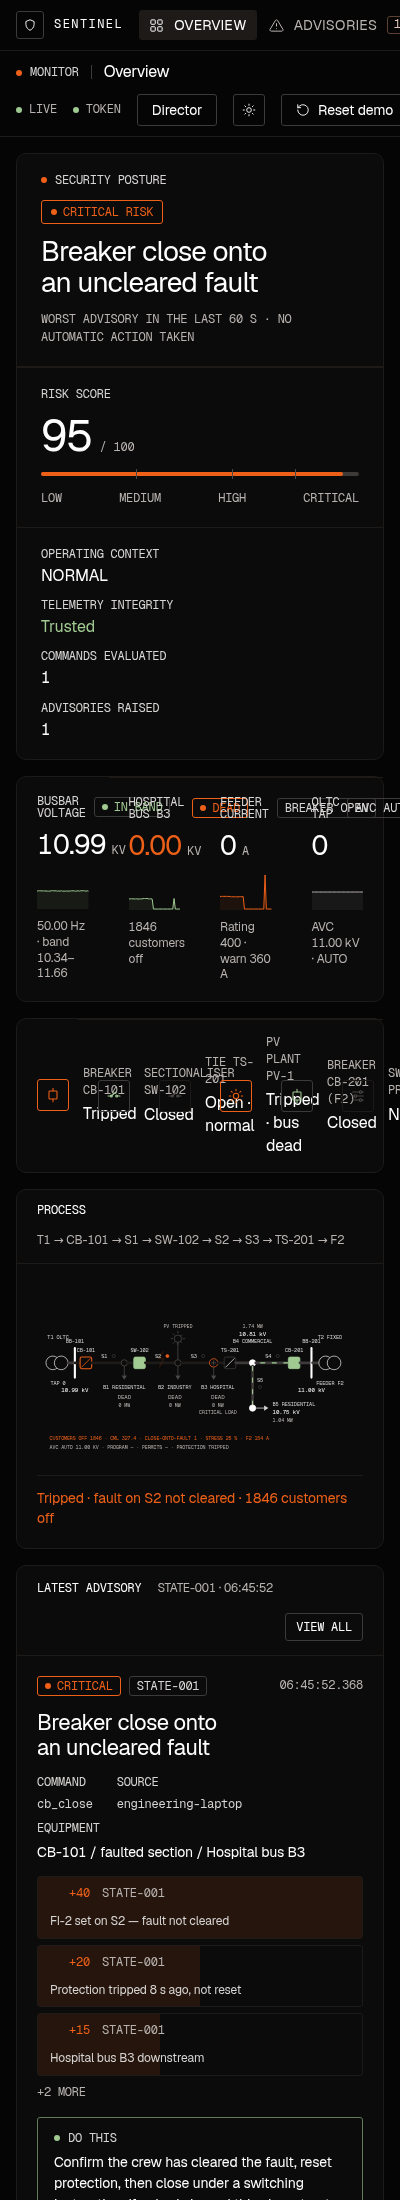
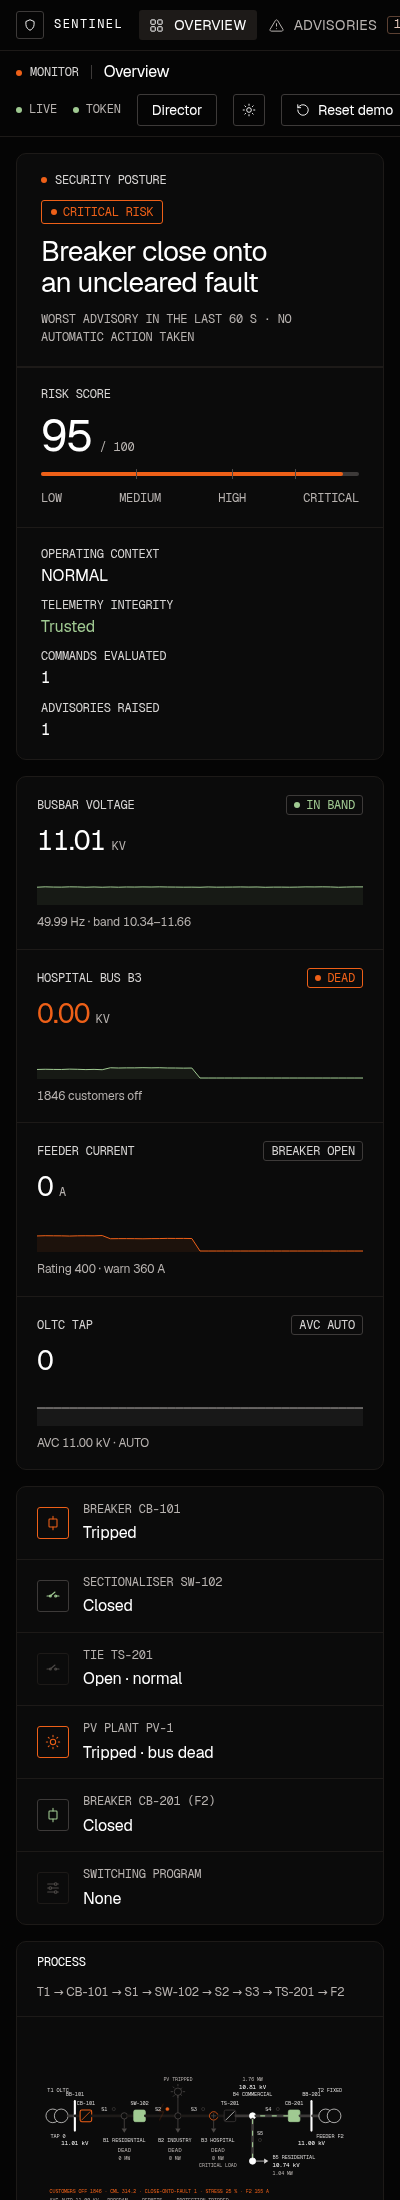
fix(console): breakpoints win over the descriptor's column count on phones

diff --git a/sentinel/api/static/app.js b/sentinel/api/static/app.js
@@ -111,13 +111,13 @@ function applyDescriptor(d) {
   }).join('');
   $('foot-process').textContent = d.short;
   $('process-sub').textContent = d.process_sub;
-  const tiles = $('tiles'); tiles.style.setProperty('--cols', d.kpis.length);
+  const tiles = $('tiles'); tiles.style.setProperty('--cols-desktop', d.kpis.length);
   tiles.innerHTML = d.kpis.map((k) => `<div class="tile" id="kpi-${k.key}" style="--spark:${CV[k.spark] || CV.green}">
     <div class="tile-top"><span class="eyebrow">${esc(k.label)}</span><span class="badge plain" id="kpi-${k.key}-badge">—</span></div>
     <div class="tile-val"><b id="v-${k.key}">—</b><span>${esc(k.unit)}</span></div>
     <svg class="spark" id="sp-${k.key}" viewBox="0 0 100 40" preserveAspectRatio="none"></svg>
     <div class="tile-foot" id="kpi-${k.key}-foot">${esc(fmtTpl(k.foot, {}))}</div></div>`).join('');
-  const eq = $('equipment'); eq.style.setProperty('--cols', d.equipment.length);
+  const eq = $('equipment'); eq.style.setProperty('--cols-desktop', d.equipment.length);
   eq.innerHTML = d.equipment.map((e) => `<div><div class="eq-icon" id="eq-${e.key}-i"><svg><use href="#i-${esc(e.icon)}"/></svg></div>
     <div><div class="eq-name">${esc(e.label)}</div><div class="eq-state" id="eq-${e.key}">—</div></div></div>`).join('');
   $('legend').innerHTML = d.trend.series.map((s) => `<span class="${s.dash ? 'dash' : ''}" style="--c:${CV[s.color]}">${esc(s.label)}</span>`).join('');

diff --git a/sentinel/api/static/styles.css b/sentinel/api/static/styles.css
@@ -550,8 +550,8 @@ body.ready .scale i { transition: width 0.4s var(--ease), background-color var(-
 }
 
 /* ------------------------------------------------------------------ process-descriptor layouts */
-.tiles { grid-template-columns: repeat(var(--cols, 4), 1fr); }
-.equipment { grid-template-columns: repeat(var(--cols, 4), 1fr); }
+/* --cols-desktop comes from the process descriptor (inline); --cols from the breakpoints below wins on small screens */
+.tiles, .equipment { grid-template-columns: repeat(var(--cols, var(--cols-desktop, 4)), 1fr); }
 .form-row .input, .form-row .select { width: auto; }
 .form-row .input[type="number"] { width: 96px; }
 .form-row .input[type="text"] { width: 120px; }
